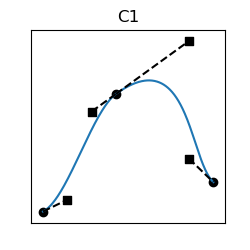
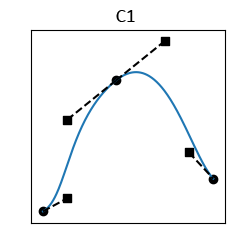
Correct continuity classes; add introductory text for series.

diff --git a/proposals/spline-animation/README.md b/proposals/spline-animation/README.md
@@ -183,6 +183,11 @@ Here is a summary of the proposed data fields that will make up splines and
 related classes.  This is an abstract description, not a literal data structure.
 However, the USD Anim API will follow this description at least partly.
 
+We are proposing a generalization of splines that we call _series_.  A series is
+a set of values over time for any value type.  _Splines_ are the most important
+subtype of series, specifically for floating-point scalars.  Details are given
+below.
+
 ```
 //
 // Common interface.
@@ -481,17 +486,29 @@ part of spline data, and is not automatically preserved by USD editing
 operations, but it may be ensured programmatically by clients, and it may be
 queried from a spline.  These are the cases:
 
-| Continuity class | Continuous value | Continuous slope | Continuous curvature | How achieved                          |
-| :--------------- | :--------------: | :--------------: | :------------------: | :------------------------------------ |
-| Discontinuous    | No               | No               | No                   | Dual-valued knot                      |
-| C0               | Yes              | No               | No                   | Broken tangents (mismatched slopes)   |
-| C1               | Yes              | Yes              | No                   | Unequal tangents (mismatched lengths) |
-| C2               | Yes              | Yes              | Yes                  | Identical tangents                    |
+| Continuity class | Continuous value | Continuous tangents | Continuous slope | How achieved                          |
+| :--------------- | :--------------: | :-----------------: | :--------------: | :------------------------------------ |
+| Discontinuous    | No               | No                  | No               | Dual-valued knot                      |
+| C0               | Yes              | No                  | No               | Broken tangents (mismatched slopes)   |
+| G1               | Yes              | Yes                 | No               | Unequal tangents (mismatched lengths) |
+| C1               | Yes              | Yes                 | Yes              | Identical tangents                    |
 
 ![Discontinuous](./discontinuous.png)
 ![C0](./C0.png)
+![G1](./G1.png)
 ![C1](./C1.png)
-![C2](./C2.png)
+
+The higher continuities G2 and C2 are sometimes useful, but for now we are
+proposing omitting them from the queries supported by USD splines.  That is for
+two reasons:
+
+- For G2 and C2, there aren't intuitive rules about how tangents align.
+  Instead, more abstract geometric invariants must be maintained.
+
+- Achieving G2 and C2 requires relinquishing some degree of "local control",
+  which is typically a vital benefit of Bezier splines.  Local control means
+  that a knot or tangent position may be changed without affecting the curve on
+  any segments other than its own.
 
 ### Automatic Tangents
 
@@ -535,11 +552,12 @@ arbitrary time.  Maya shortens tangents until the loop disappears, resulting in
 a smooth shape, but one that is very different than what is authored.
 
 We may wish to choose one of these algorithms, but a third would be more
-predictable: create a cusp where the Bezier curve overlaps itself.
+predictable: create a cusp (a sharp point) where the Bezier curve overlaps
+itself.
 
 It is also theoretically possible to forbid tangents that cause crossovers.  But
 this would likely be surprising, and would violate our "All Splines Valid"
-principle (detailed below).
+principle (described below under "Error Handling").
 
 ![Crossovers](./crossovers.png)
 
@@ -640,7 +658,7 @@ iterations _accumulate_: each iteration is offset in value from its neighbors.
 In Repeat mode, the joins between iterations can be continuous, but only to the
 extent that the post-tangent of the first knot is continuous with the
 pre-tangent of the last knot.  Otherwise, the joins in Repeat mode have
-C1-discontinuous cusps.
+G1-discontinuous cusps.
 
 Reset mode is like Repeat, except that it exactly reproduces the values from the
 prototype region in each iteration.  If the value at the end of the prototype
@@ -650,7 +668,7 @@ discontinuities (instantaneous changes) at the iteration boundaries.
 Oscillate mode is like Repeat, except that the shape of the curve is
 time-reversed in every other iteration.  The iterations do not accumulate,
 because the time-reversed iterations return the curve to its starting value.  In
-Oscillate mode, the joins between iterations are C1-continuous only if the
+Oscillate mode, the joins between iterations are G1-continuous only if the
 tangents are flat, since the tangents across joins are mirrored.
 
 ### Knots Shadowed by Inner Loops
@@ -736,7 +754,7 @@ interpolation methods:
 - **Linear**: spherical linear interpolation, or "slerp" for short.  Linearly
   interpolates a great circle on a sphere.
 
-- **Eased**: the 5-dimensional spline is a smooth (C1) curve with automatically
+- **Eased**: the 5-dimensional spline is a smooth (G1) curve with automatically
   determined tangents.  This is similar to the scalar-spline case of Bezier
   curves with automatic tangents.  The resulting motion is not a great circle;
   direction and speed change smoothly, with no discontinuities at the knots.
@@ -844,7 +862,7 @@ believe the higher complexity of series merits the different treatment.
 We are also proposing that the time-sample-oriented methods of `UsdAttribute`
 continue to address only time samples, and not series.
 
-## Spline Composition
+## Series Composition
 
 The `pcp` library will need to be equipped to compose series.  The scope of this
 task is still TBD, but at a minimum, series will need to be retimed when
@@ -1163,8 +1181,10 @@ non-templated, for simplicity, and to avoid the need for non-templated base
 classes.  We propose that typed access to values and slopes be accomplished by
 means of templated accessors and mutators, and that type-erased access be
 available by passing `VtValue` as an in or out parameter, instead of the value
-type.  We propose that typed access be the moral equivalent of
-`VtValue::UncheckedGet`, with no guardrails for incorrect types.
+type.  We propose that typed read access be the moral equivalent of
+`VtValue::UncheckedGet`, with no guardrails for incorrect types.  Typed write
+access, on the other hand, will verify that all knots in a sequence use the same
+type.
 
 ## Error Handling
 
@@ -1291,8 +1311,8 @@ class TsSeriesInterface
     // Conveniences that return whether all knots pass the tests of the same
     // names.
     bool IsC0Continuous() const;
+    bool IsG1Continuous() const;
     bool IsC1Continuous() const;
-    bool IsC2Continuous() const;
 
     // Insert a knot at the specified time, exactly preserving the shape of the
     // curve.  If there is already a knot at that time, do nothing.  Return
@@ -1344,8 +1364,8 @@ protected:
     // This is an implementation detail; these are possible examples.
     virtual TfType _GetValueType() const = 0;
     virtual bool _IsC0Continuous() const = 0;
+    virtual bool _IsG1Continuous() const = 0;
     virtual bool _IsC1Continuous() const = 0;
-    virtual bool _IsC2Continuous() const = 0;
     virtual void _Split(double time) = 0;
     virtual void _RemoveKnot(double time) = 0;
     virtual void _SetPreExtrap(TsExtrapMethod method) = 0;
@@ -1548,8 +1568,8 @@ class TsKnotInterface
     TsInterpMethod GetPostInterp() const;
 
     bool IsC0Continuous() const;
+    bool IsG1Continuous() const;
     bool IsC1Continuous() const;
-    bool IsC2Continuous() const;
 
     void SetCustomData(const VtDictionary &customData);
     VtDictionary GetCustomData() const;
@@ -1561,8 +1581,8 @@ protected:
     // This is an implementation detail; these are possible examples.
     virtual bool _SetPostInterp(TsInterpMethod method) = 0;
     virtual bool _IsC0Continuous() const = 0;
+    virtual bool _IsG1Continuous() const = 0;
     virtual bool _IsC1Continuous() const = 0;
-    virtual bool _IsC2Continuous() const = 0;
 };
 
 class TsSplineKnot :
